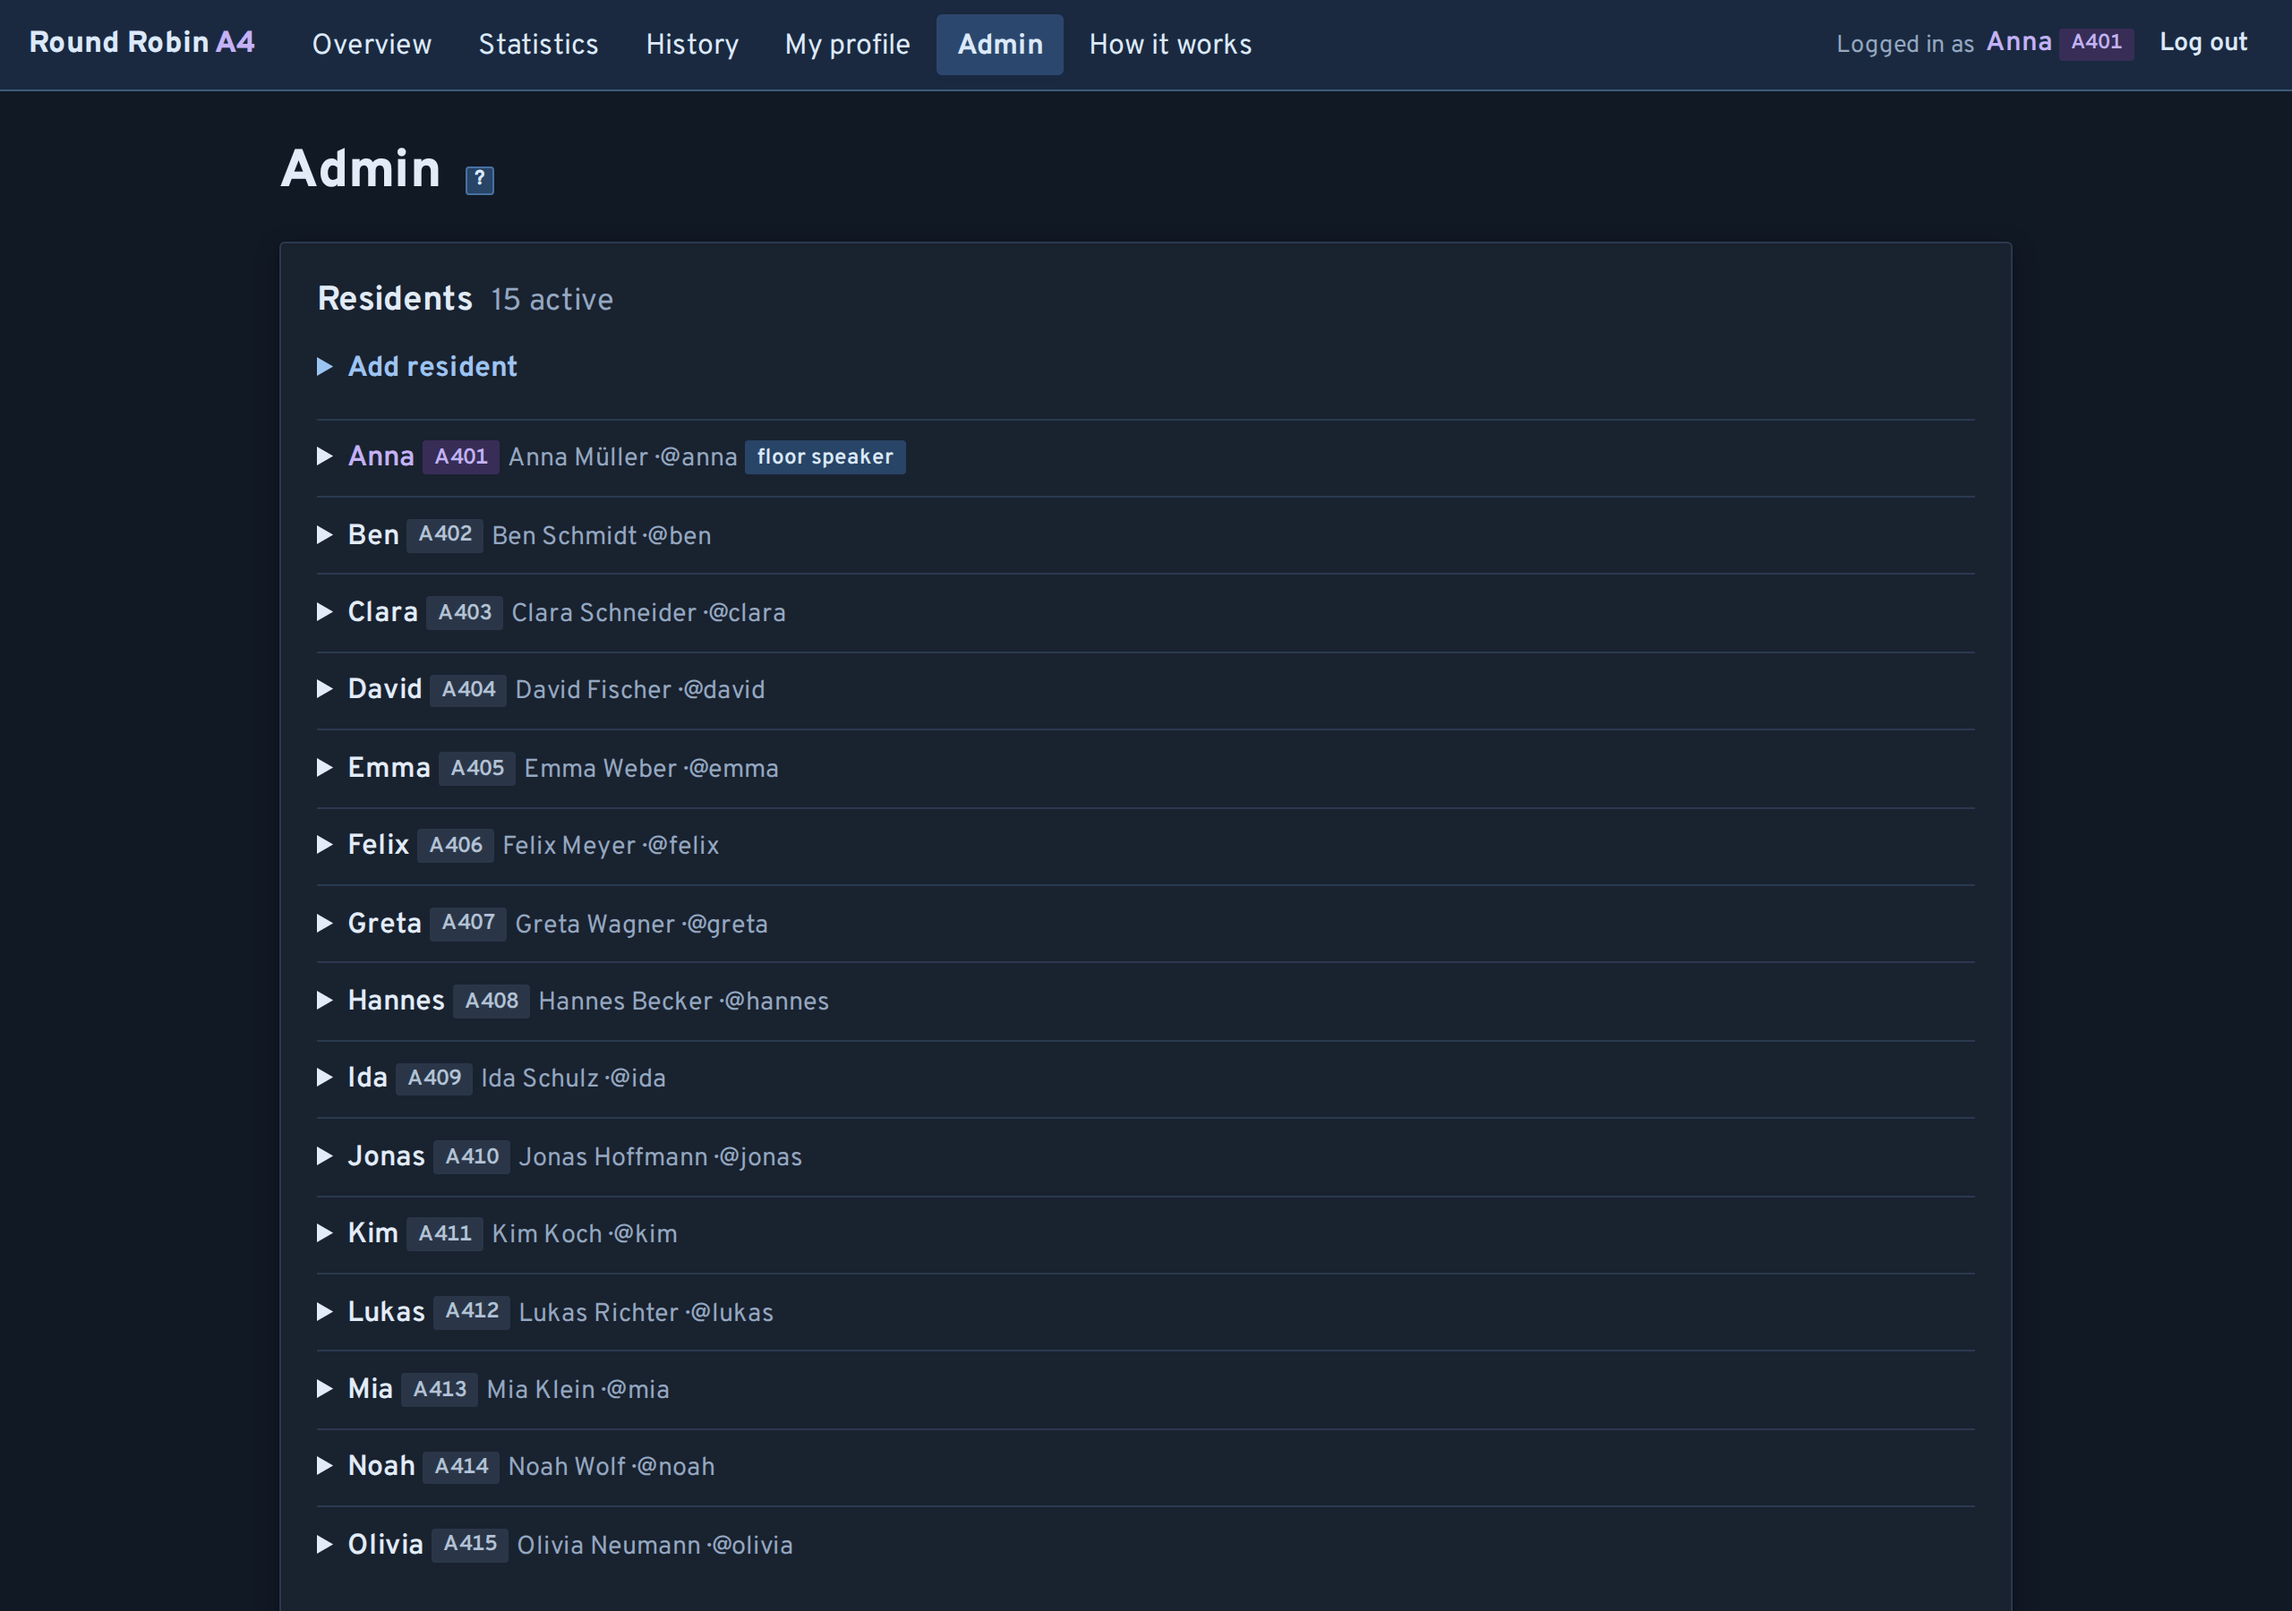
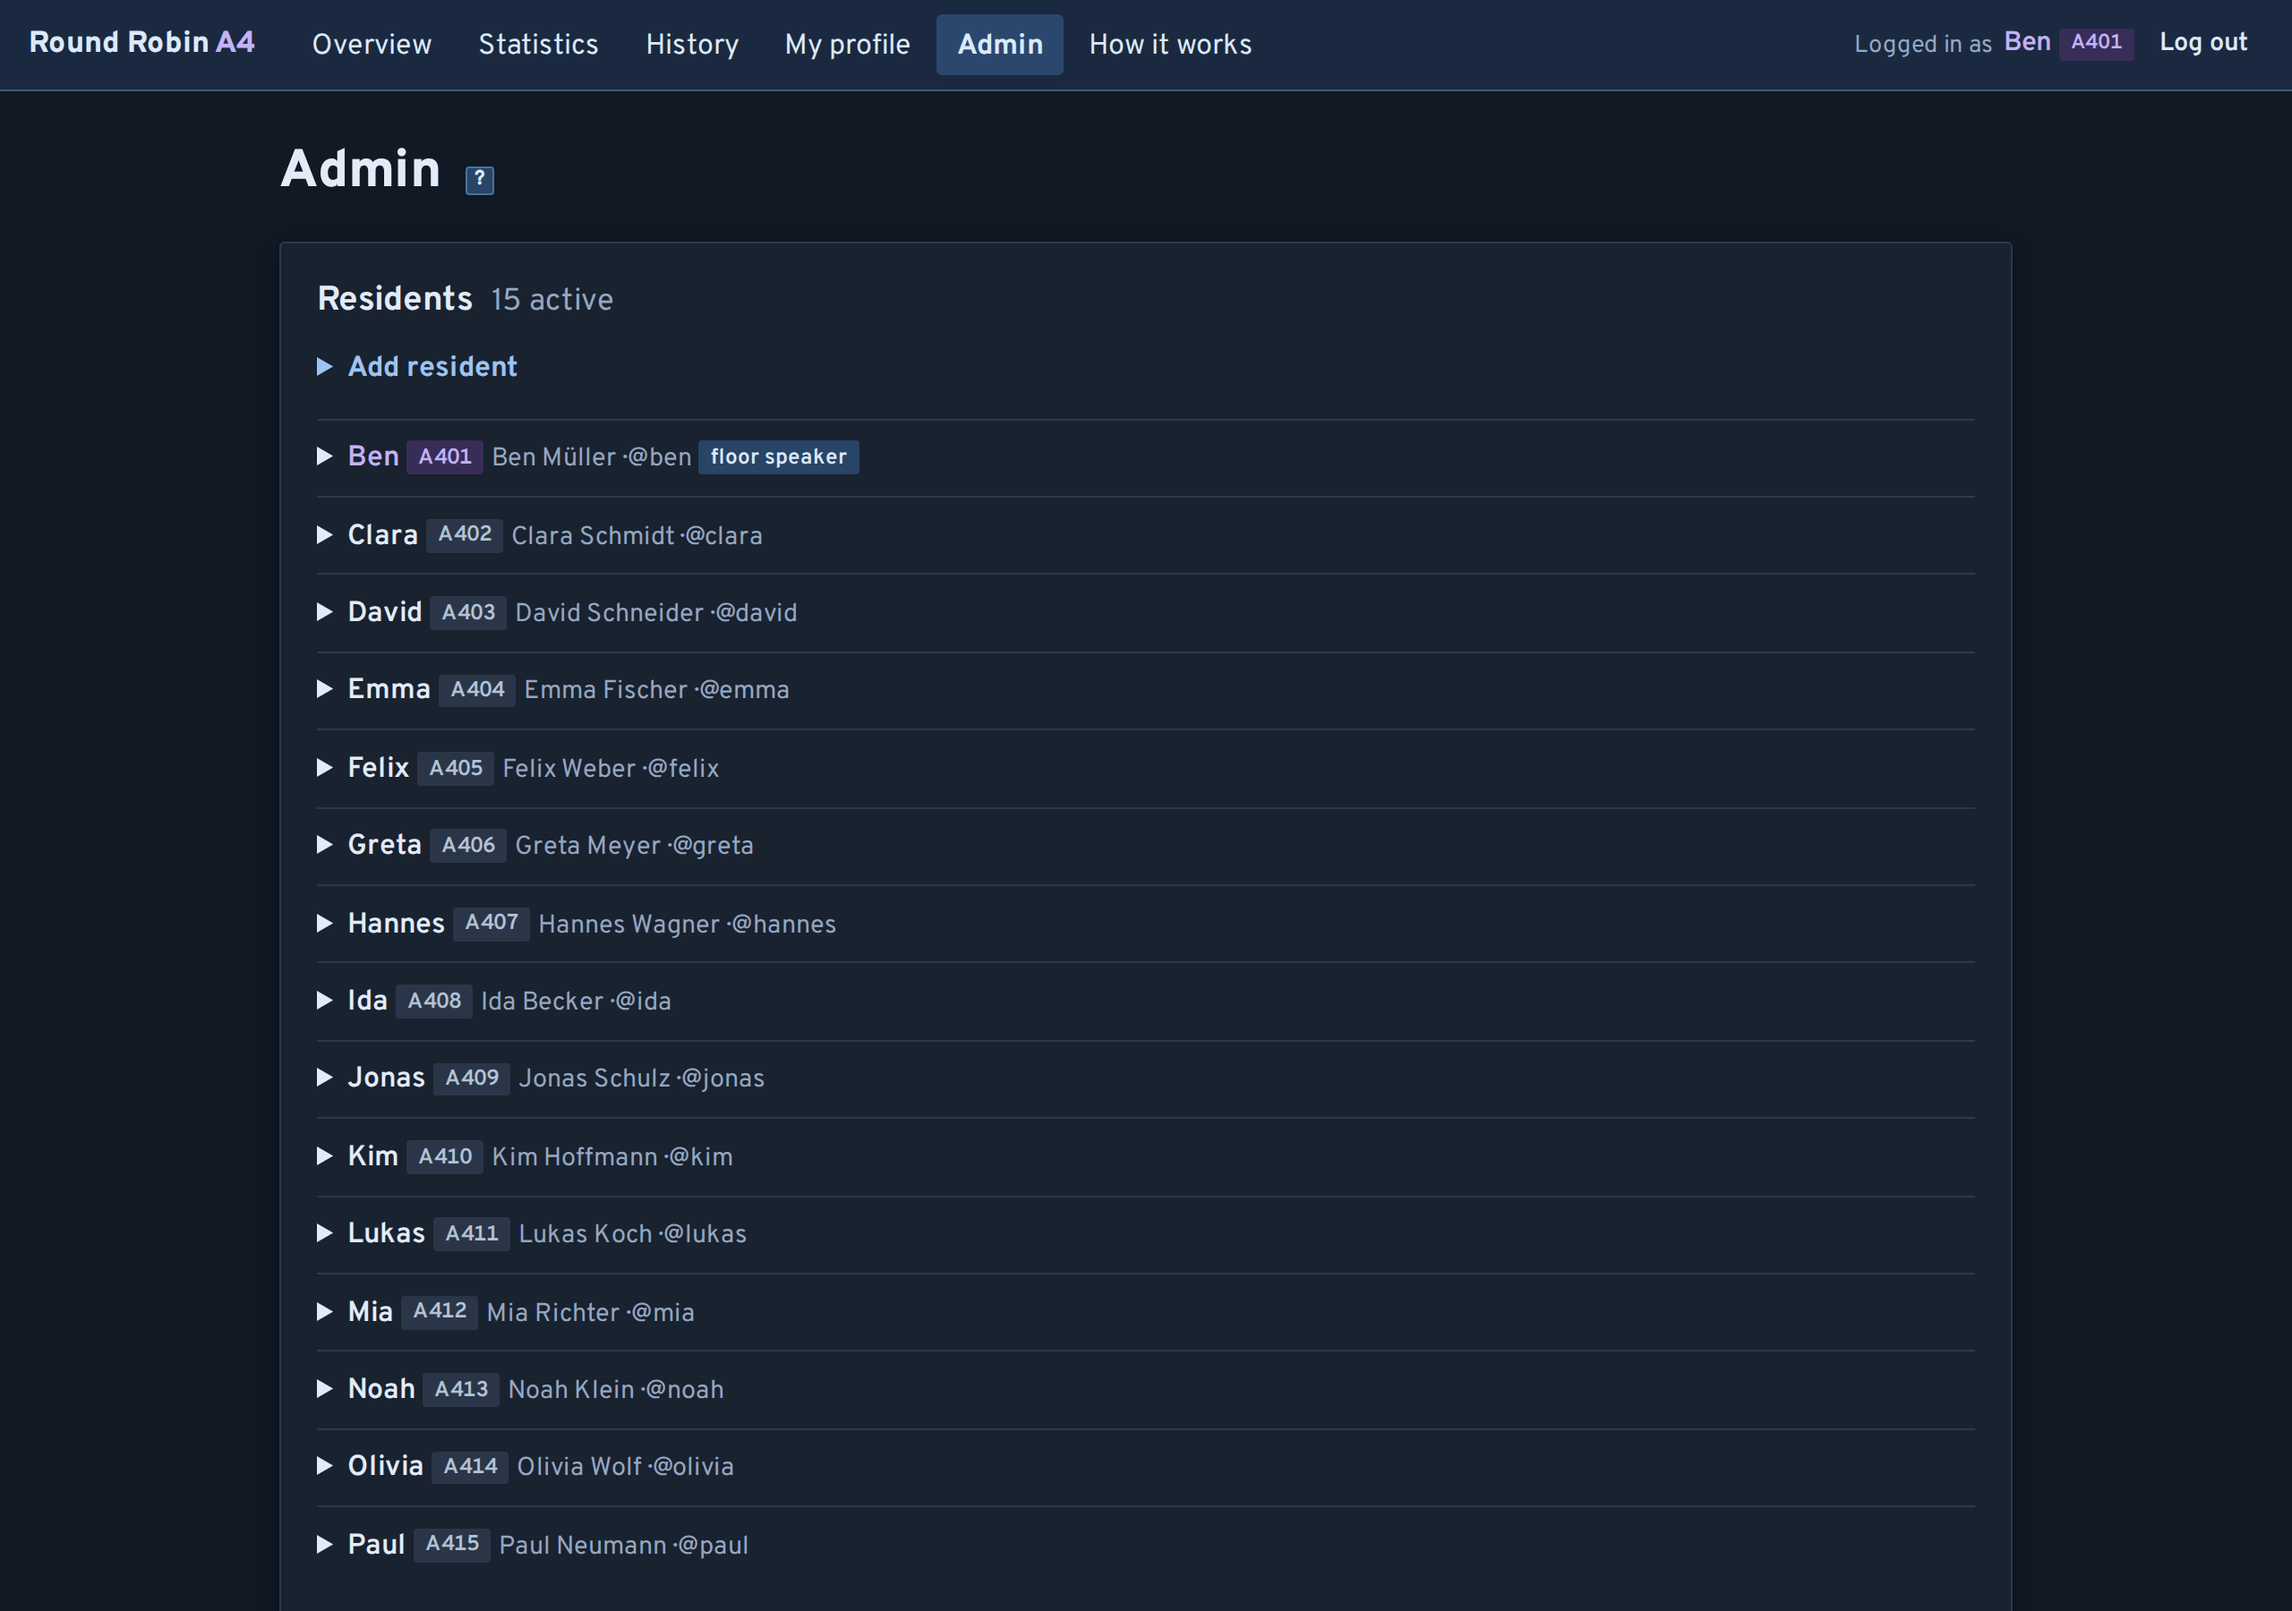
Leave Anna out of the test residents
Retake the README screenshots without her.

diff --git a/scripts/seed.py b/scripts/seed.py
@@ -36,7 +36,7 @@ from app.services import duties, jobs, users  # noqa: E402
 
 # fmt: off
 FIRST_NAMES = [
-    "Anna", "Ben", "Clara", "David", "Emma", "Felix", "Greta", "Hannes", "Ida", "Jonas",
+    "Ben", "Clara", "David", "Emma", "Felix", "Greta", "Hannes", "Ida", "Jonas",
     "Kim", "Lukas", "Mia", "Noah", "Olivia", "Paul", "Quinn", "Rosa", "Simon", "Tara",
     "Uwe", "Vera", "Wim", "Xenia", "Yusuf", "Zoe",
 ]
